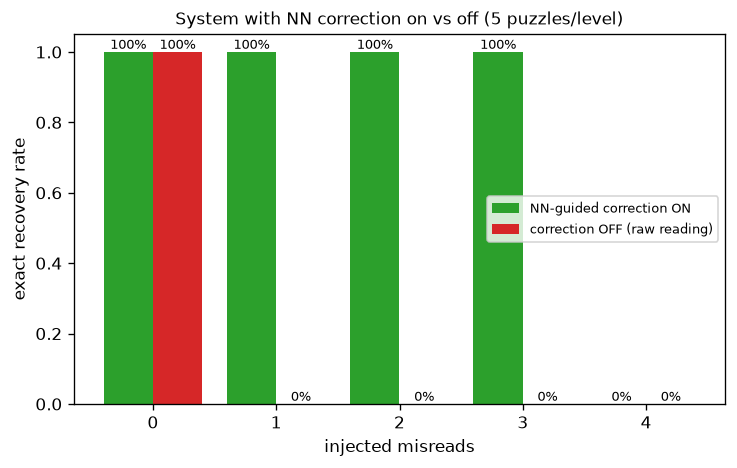
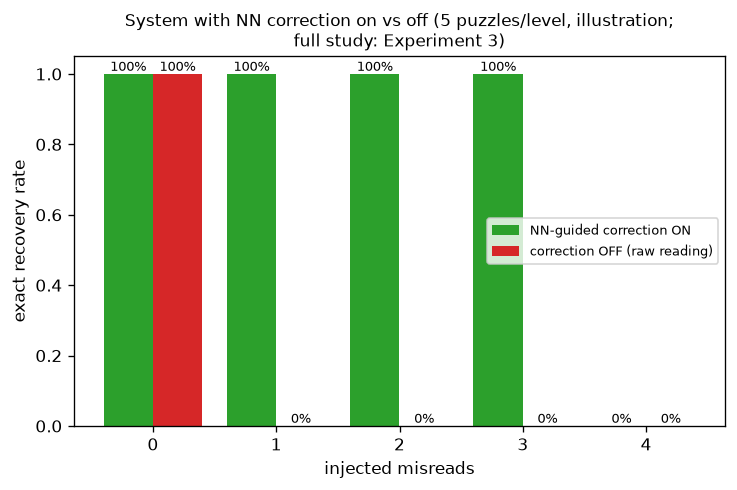
Phase 7: review fixes round 1
- demo smoke test checks outcomes: exact recovery for 2 misreads, unreadable message and least
  confident cells for 4
- unreadable case: solution panel marks the 5 least confident cells with their 2nd choice
- trace shows which priority orders the frontier; f column / line only for A*
- CSP section names the grid it uses (corrected puzzle, or ground truth when unreadable)
- --givens limited to 25 / 30 / 35 (clean argparse error)
- NN on/off figure labelled as an illustration (full study = Experiment 3)

diff --git a/run_demo.py b/run_demo.py
@@ -69,11 +69,17 @@ def grid_text(grid, conf=None, marks=()) -> str:
     return "\n".join(lines)
 
 
+PRIORITY_NAME = {"ucs": "g", "greedy": "h", "astar": "f = g + h"}
+
+
 def print_trace(search_result, rows: int = config.DEMO_TRACE_ROWS) -> None:
-    """Popped nodes in order with g, h and f = g + h."""
-    print(f"  {'step':>4}  {'g':>7}  {'h':>7}  {'f':>7}  goal  state")
+    """Popped nodes in order with g and h (and f = g + h for A*)."""
+    astar = search_result.algorithm == "astar"
+    print(f"  frontier ordered by {PRIORITY_NAME[search_result.algorithm]}")
+    print(f"  {'step':>4}  {'g':>7}  {'h':>7}  {'f' if astar else '':>7}  goal  state")
     for t in search_result.trace[:rows]:
-        print(f"  {t.step:4d}  {t.g:7.3f}  {t.h:7.3f}  {t.g + t.h:7.3f}  {'YES' if t.is_goal else ' no'}"
+        f = f"{t.g + t.h:7.3f}" if astar else " " * 7
+        print(f"  {t.step:4d}  {t.g:7.3f}  {t.h:7.3f}  {f}  {'YES' if t.is_goal else ' no'}"
               f"   {describe(t.state)}")
     if len(search_result.trace) > rows:
         print(f"  ... {len(search_result.trace) - rows} more popped nodes")
@@ -130,7 +136,10 @@ def figure_pipeline(mosaic, result, puzzle, injected, path) -> None:
         draw_grid(axes[2], result.solution, f"3. Solution ({result.status}, {ok})\n"
                   "orange = corrected by search", marks=fixed)
     else:
-        draw_grid(axes[2], read.grid, f"3. {result.message}")
+        unsure = {u.cell: "tab:orange" for u in result.least_confident}
+        second = {u.cell: f"or {u.top3[1][0]}? {u.top3[1][1]:.0%}" for u in result.least_confident}
+        draw_grid(axes[2], read.grid, f"3. {result.message}\norange = {len(unsure)} least confident "
+                  "cells with 2nd choice (top-3 in console)", marks=unsure, small=second)
     save(fig, path)
 
 
@@ -141,10 +150,12 @@ def figure_search(results: dict, chosen: str, path) -> None:
     steps = [t.step for t in trace]
     axes[0].plot(steps, [t.g for t in trace], "o-", ms=3, label="g (cost so far)")
     axes[0].plot(steps, [t.h for t in trace], "s-", ms=3, label="h (conflict lower bound)")
-    axes[0].plot(steps, [t.g + t.h for t in trace], "--", label="f = g + h")
+    if chosen == "astar":
+        axes[0].plot(steps, [t.g + t.h for t in trace], "--", label="f = g + h (A* priority)")
     axes[0].set_xlabel("pop order")
     axes[0].set_ylabel("cost")
-    axes[0].set_title(f"{chosen.upper()} search trace ({len(trace)} nodes popped)", fontsize=10)
+    axes[0].set_title(f"{chosen.upper()} search trace ({len(trace)} nodes popped, "
+                      f"ordered by {PRIORITY_NAME[chosen]})", fontsize=10)
     axes[0].legend(fontsize=8)
     names = list(results)
     expanded = [results[a].search.stats.nodes_expanded if results[a].search else 0 for a in names]
@@ -185,8 +196,8 @@ def figure_nn_on_off(rates: dict, path) -> None:
     ax.set_xlabel("injected misreads")
     ax.set_ylabel("exact recovery rate")
     ax.set_ylim(0, 1.05)
-    ax.set_title(f"System with NN correction on vs off ({config.DEMO_BATCH_PUZZLES} puzzles/level)",
-                 fontsize=10)
+    ax.set_title(f"System with NN correction on vs off ({config.DEMO_BATCH_PUZZLES} puzzles/level, "
+                 "illustration;\nfull study: Experiment 3)", fontsize=10)
     ax.legend(fontsize=8)
     save(fig, path)
 
@@ -197,7 +208,8 @@ def main() -> None:
     parser.add_argument("--seed", type=int, default=config.SEED)
     parser.add_argument("--misreads", type=int, default=config.DEMO_MISREADS,
                         choices=config.MISREAD_LEVELS)
-    parser.add_argument("--givens", type=int, default=config.DEFAULT_GIVENS)
+    parser.add_argument("--givens", type=int, default=config.DEFAULT_GIVENS,
+                        choices=config.GIVEN_TARGETS)
     parser.add_argument("--algorithm", default=config.DEFAULT_ALGORITHM, choices=ALGORITHMS)
     args = parser.parse_args()
     out = config.DEMO_DIR
@@ -247,7 +259,8 @@ def main() -> None:
         corrected[row.cell] = row.new_digit
     csp_grid = corrected if result.solved else puzzle.puzzle
     csp = compare_csp_modes(csp_grid)
-    print(f"\n=== 5. CSP pruning on the {'solved' if result.solved else 'original'} puzzle (static order)")
+    which = "corrected puzzle" if result.solved else "original (ground-truth) puzzle"
+    print(f"\n=== 5. CSP pruning on the {which} (static order)")
     print(f"  {'mode':12s} {'status':9s} {'assign':>8s} {'backtr':>8s} {'AC3 rev':>8s} {'pruned':>8s}")
     for name, r in csp.items():
         st = r.stats

diff --git a/tests/test_demo.py b/tests/test_demo.py
@@ -5,6 +5,7 @@ import sys
 import pytest
 
 from sudoku import config
+from sudoku.integration import UNREADABLE_MESSAGE
 from tests.test_nn import needs_model
 
 import run_demo
@@ -21,6 +22,11 @@ def test_demo_runs_and_saves_figures(tmp_path, monkeypatch, capsys, misreads):
     for section in ("=== 1. NN reading", "=== 2. AC-3 check", "=== 3. Correction search",
                     "=== 4. Result", "=== 5. CSP pruning", "=== 6. NN-guided correction"):
         assert section in out
+    if misreads == 2:
+        assert "exact recovery of the original solution: True" in out
+        assert "correction (" in out
+    else:  # 4 misreads exceed the 3-correction budget
+        assert UNREADABLE_MESSAGE in out and "least confident cells" in out
     names = {p.name for p in tmp_path.iterdir()}
     assert names == {"demo_pipeline.png", "demo_search.png", "demo_csp.png", "demo_nn_on_off.png"}
 
